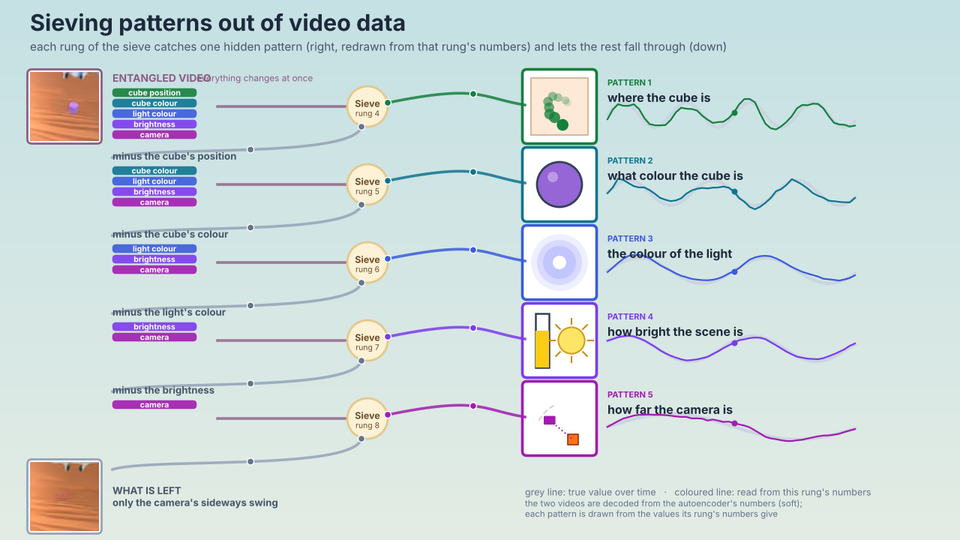
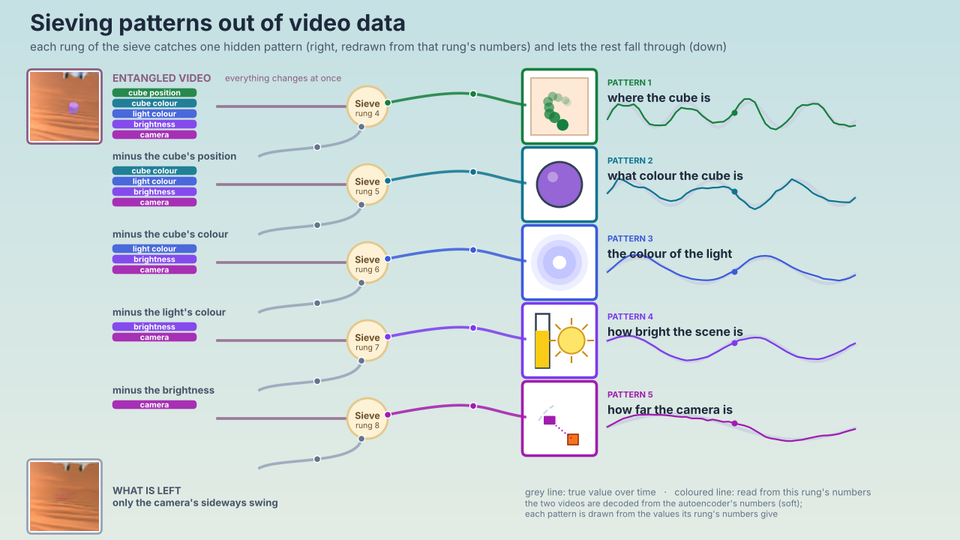
Sieve clip: tidy labels

diff --git a/experiments/factors/make_sieve_glyph_gif.py b/experiments/factors/make_sieve_glyph_gif.py
@@ -66,14 +66,14 @@ for t in range(T):
             for k, j in enumerate(range(i, 5)):
                 ax.add_patch(FancyBboxPatch((150, y + 24 + k * 14 + (0 if i else 6), ) if False else (150, y + 22 + k * 14), 112, 11, boxstyle="round,pad=0.3,rounding_size=5", fc=cols[j], ec="none", alpha=.9, zorder=3)); ax.text(206, y + 27.5 + k * 14, short[j], fontsize=7.6, color="white", ha="center", va="center", zorder=4, fontweight="bold")
             minus = ["", "minus the cube's position", "minus the cube's colour", "minus the light's colour", "minus the brightness"]
-            if i == 0: ax.text(150, y + 8, "ENTANGLED VIDEO", fontsize=10, color="#8b5e83", fontweight="bold", va="center", zorder=4); ax.text(262, y + 8, "everything changes at once", fontsize=8.5, color="#8b5e83", va="center", zorder=4)
+            if i == 0: ax.text(150, y + 8, "ENTANGLED VIDEO", fontsize=10, color="#8b5e83", fontweight="bold", va="center", zorder=4); ax.text(300, y + 8, "everything changes at once", fontsize=8.5, color="#8b5e83", va="center", zorder=4)
             else: ax.text(150, y + 8, minus[i], fontsize=9.5, color="#475569", fontweight="bold", va="center", zorder=4)
         if i == 5: continue
         col = cols[i]; nx = 490; n_ = np.array([nx, yc])
         ax.plot(*bez(np.array([290, yc]), np.array([nx - 100, yc]), np.array([nx - 50, yc]), n_).T, color="#8b5e83", lw=2.6, alpha=.8, zorder=3)
         ax.add_patch(Circle((nx, yc), 27, fc="#fdf1d6", ec="#e4c88b", lw=2, zorder=4)); ax.text(nx, yc - 4, "Sieve", fontsize=9, ha="center", va="center", fontweight="bold", color="#6b4f2a", zorder=5); ax.text(nx, yc + 9, f"rung {EXTR[i]+1}", fontsize=7.5, ha="center", va="center", color="#6b4f2a", zorder=5)
         up = bez(n_ + [27, -5], n_ + [150, -30], np.array([640, yc - 12]), np.array([700, yc - 2])); ax.plot(up[:, 0], up[:, 1], color=col, lw=2.6, alpha=.85, zorder=3)
-        down = bez(n_ + [-8, 27], n_ + [-20, 70], np.array([200, y + DY - 6]), np.array([150, y + DY + 10])); ax.plot(down[:, 0], down[:, 1], color="#94a3b8", lw=2.6, alpha=.85, zorder=3)
+        down = bez(n_ + [-8, 27], n_ + [-14, 62], np.array([372, y + DY - 6]), np.array([346, y + DY + 8])); ax.plot(down[:, 0], down[:, 1], color="#94a3b8", lw=2.6, alpha=.85, zorder=3)
         for path, c in ((up, col), (down, "#64748b")):
             for ph in (0, .5): p = path[int(((t / T * 3 + ph) % 1) * 59)]; ax.add_patch(Circle(p, 4.5, fc=c, ec="white", lw=1, zorder=6))
         xr = 700; ax.add_patch(FancyBboxPatch((xr - 3, y - 3), TH + 6, TH + 6, boxstyle="round,pad=0.5,rounding_size=6", fc="white", ec=col, lw=2.6, zorder=1)); glyph(ax, i, t, xr, y)
